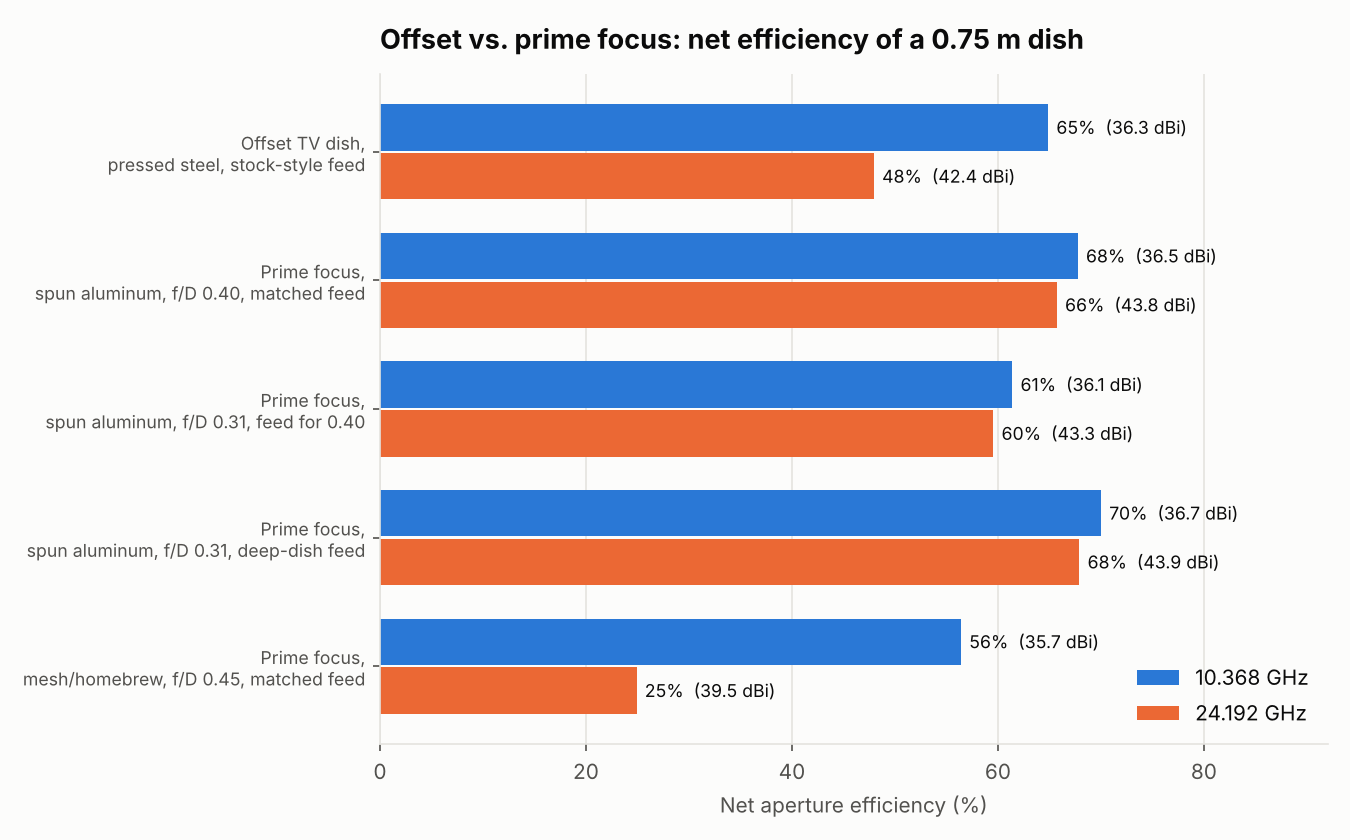
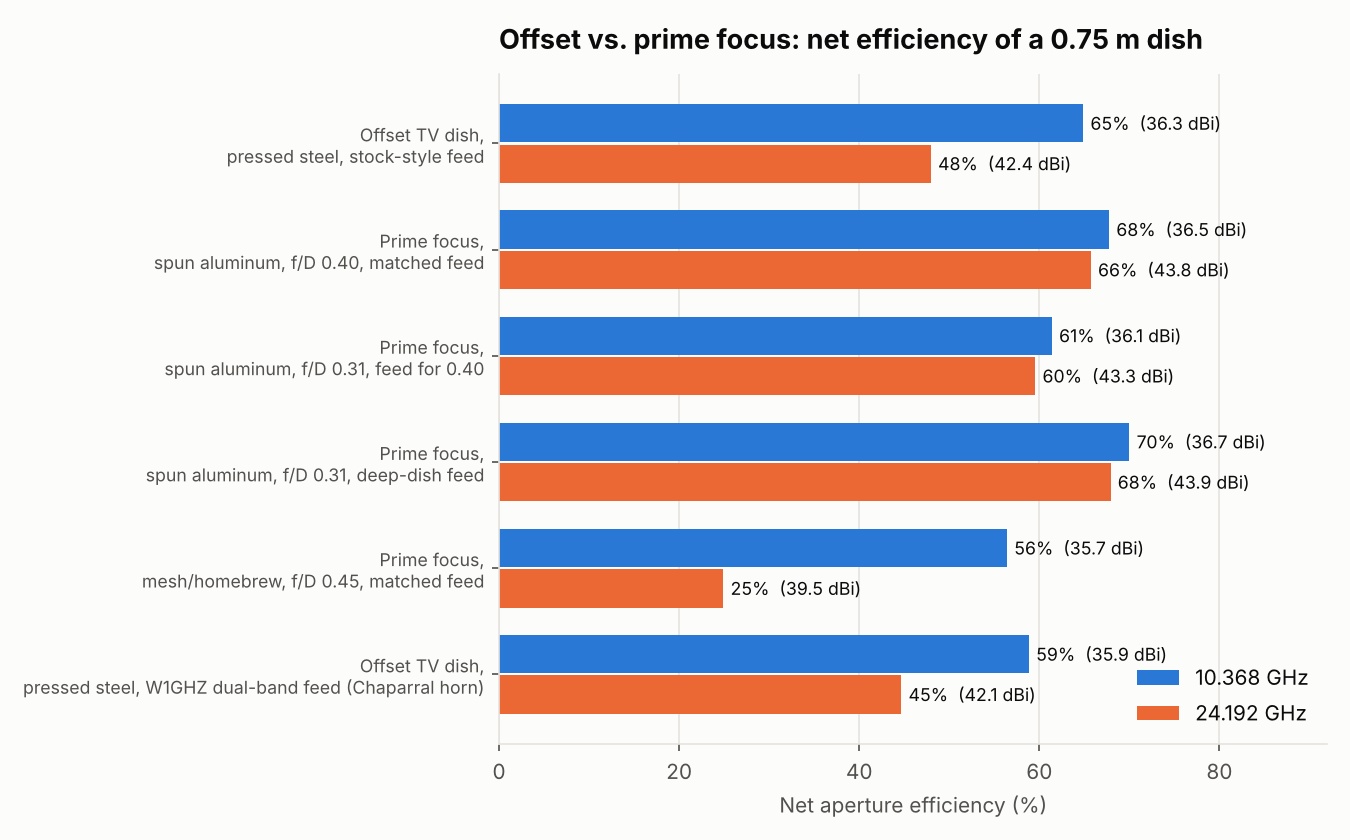
Add dual-band section from W1GHZ 10/24 GHz feed data
Horn efficiency and phase-center data from W1GHZ (2004), dual-band net gain
for offset dishes, comparison row, dish/feed recommendations, and the
production feed's 10 GHz port band-pass filter.

Claude-Session: https://claude.ai/code/session_01UT9Wmn24kQZdNkudeefJNH

diff --git a/make_report.py b/make_report.py
@@ -202,6 +202,9 @@ SCENARIOS = [
     ("Prime focus, spun aluminum, f/D 0.31, feed for 0.40", "prime", 0.31, 0.40, 0.25),
     ("Prime focus, spun aluminum, f/D 0.31, deep-dish feed", "prime", 0.31, 0.31, 0.25),
     ("Prime focus, mesh/homebrew, f/D 0.45, matched feed", "prime", 0.45, 0.45, 1.00),
+    # Optional 6th field: per-band feed efficiency (10, 24) from published data instead of the cos^n model.
+    ("Offset TV dish, pressed steel, W1GHZ dual-band feed (Chaparral horn)", "offset", 0.70, 0.70, 0.60,
+     (0.74, 0.76)),
 ]
 
 
@@ -209,16 +212,18 @@ def scenario_rows():
     """[(name, rms, illum, (eff10, gain10), (eff24, gain24), (blk10, blk24)), ...]"""
     other = 10 ** (-OTHER_LOSS_DB / 10)
     rows = []
-    for name, geom, fd, feed_fd, rms in SCENARIOS:
+    for name, geom, fd, feed_fd, rms, *override in SCENARIOS:
         n, _ = dc.best_feed_n(feed_fd)
-        illum = dc.illumination_efficiency(n, fd)
+        model_illum = dc.illumination_efficiency(n, fd)
         cells, blocks = [], []
-        for f in BANDS:
+        for k, f in enumerate(BANDS):
+            illum = override[0][k] if override else model_illum
             blk = 1.0 if geom == "offset" else dc.blockage_efficiency(FEED_BLOCK_WL * dc.wavelength_m(f), SCEN_D)
             blocks.append(blk)
             eff = illum * blk * other * 10 ** (-dc.ruze_loss_db(rms, f) / 10)
             cells.append((eff, dc.gain_dbi(SCEN_D, f, eff)))
-        rows.append((name, rms, illum, cells[0], cells[1], tuple(blocks)))
+        illum_txt = f"{override[0][0]:.0%} / {override[0][1]:.0%}*" if override else f"{model_illum:.1%}"
+        rows.append((name, rms, illum_txt, cells[0], cells[1], tuple(blocks)))
     return rows
 
 
@@ -226,10 +231,12 @@ def scenario_table() -> str:
     t = ("| Dish | RMS (assumed) | Illum. × spill | Blockage 10 / 24 | Net eff. 10 GHz | Net eff. 24 GHz "
          "| Gain 10.368 | Gain 24.192 |\n|---|---|---|---|---|---|---|---|\n")
     for name, rms, illum, c10, c24, blk in scenario_rows():
-        t += (f"| {name} | {rms:.2f} mm | {illum:.1%} | {blk[0]:.1%} / {blk[1]:.1%} | "
+        t += (f"| {name} | {rms:.2f} mm | {illum} | {blk[0]:.1%} / {blk[1]:.1%} | "
               f"{c10[0]:.1%} | {c24[0]:.1%} | {c10[1]:.2f} | {c24[1]:.2f} |\n")
     t += (f"\nAll rows: {SCEN_D} m aperture, {OTHER_LOSS_DB} dB lumped for phase error, cross-pol, feed loss "
-          f"and struts, feed shadow {FEED_BLOCK_WL:.0f}λ across. Gains in dBi.")
+          f"and struts, feed shadow {FEED_BLOCK_WL:.0f}λ across. Gains in dBi. "
+          "\\* W1GHZ's calculated 10 / 24 GHz efficiency at f/D 0.7 (includes phase error), used instead of the "
+          "cos^n model.")
     return t
 
 
@@ -332,6 +339,107 @@ def chart_size_vs_surface():
     plt.close(fig)
 
 
+# ---------------------------------------------------------------- dual-band (W1GHZ feed)
+
+REAL_WORLD = 0.85   # W1GHZ: "REAL WORLD at least 15% lower" than calculated efficiency
+DUAL_HORN = "Chaparral"
+DUAL_DISHES = [("18 in", 18 * dc.INCH)] + DISHES
+DUAL_RMS = [0.25, 0.5, 0.75]
+
+
+def load_horns():
+    import csv
+    with open(ROOT / "data" / "w1ghz_dualband_2004.csv") as fh:
+        rows = [r for r in csv.DictReader(line for line in fh if not line.startswith("#"))]
+    for r in rows:
+        for k in r:
+            if k != "horn":
+                r[k] = float(r[k])
+    return rows
+
+
+def horn_table() -> str:
+    t = ("| Horn | 24 GHz best eff. (f/D) | 10 GHz best eff. (f/D) | Eff. at f/D 0.7: 24 GHz | "
+         "Eff. at f/D 0.7: 10 GHz | 10 vs 24 GHz | Phase-center gap |\n|---|---|---|---|---|---|---|\n")
+    for h in load_horns():
+        gap = abs(h["pc24_mm"] - h["pc10_mm"])
+        diff = 10 * math.log10(h["offset07_eff10"] / h["offset07_eff24"])
+        lam24 = dc.wavelength_m(BANDS[1]) * 1000
+        lam10 = dc.wavelength_m(BANDS[0]) * 1000
+        name = f"**{h['horn']}**" if h["horn"] == DUAL_HORN else h["horn"]
+        t += (f"| {name} | {h['eff24_best']:.0%} ({h['fd24_best']:.2f}) | {h['eff10_best']:.0%} ({h['fd10_best']:.2f}) | "
+              f"{h['offset07_eff24']:.0%} | {h['offset07_eff10']:.0%} | {diff:+.2f} dB | "
+              f"{gap:.1f} mm ({gap / lam10:.2f} λ / {gap / lam24:.2f} λ) |\n")
+    t += ("\nCalculated (HFSS) values from W1GHZ (2004); see `data/w1ghz_dualband_2004.csv`. "
+          "\"10 vs 24 GHz\" is the 10 GHz efficiency relative to 24 GHz at offset f/D 0.7, "
+          "with the feed at the 24 GHz phase center. The phase-center gap is shown in wavelengths at 10 and at 24 GHz.")
+    return t
+
+
+def dual_effs():
+    h = next(x for x in load_horns() if x["horn"] == DUAL_HORN)
+    return h["offset07_eff10"] * REAL_WORLD, h["offset07_eff24"] * REAL_WORLD
+
+
+def dual_gain_table() -> str:
+    e10, e24 = dual_effs()
+    cols = [(f, e, r) for f, e in ((BANDS[0], e10), (BANDS[1], e24)) for r in DUAL_RMS]
+    t = "| Dish | " + " | ".join(f"{'10' if f < 20 else '24'} GHz @ {r} mm" for f, _, r in cols) + " |\n"
+    t += "|---|" + "---|" * len(cols) + "\n"
+    for name, d in DUAL_DISHES:
+        t += f"| {name} ({d:.3f} m) | " + " | ".join(
+            f"{dc.gain_dbi(d, f, e) - dc.ruze_loss_db(r, f):.1f}" for f, e, r in cols) + " |\n"
+    t += (f"\nNet gain in dBi with the {DUAL_HORN} horn: W1GHZ's calculated efficiency at f/D 0.7 "
+          f"× {REAL_WORLD} real-world factor = {e10:.1%} at 10.368 GHz and {e24:.1%} at 24.192 GHz, "
+          "minus Ruze surface loss.")
+    return t
+
+
+def chart_horns():
+    horns = load_horns()
+    names = [h["horn"].replace(" (bare dual-mode)", "\n(bare)").replace(" corrugated", "\ncorrugated") for h in horns]
+    x = np.arange(len(horns))
+    w = 0.36
+    fig, ax = plt.subplots(figsize=(9, 5.2), facecolor=SURFACE)
+    for i, (key, f, color) in enumerate((("offset07_eff10", BANDS[0], BLUE), ("offset07_eff24", BANDS[1], ORANGE))):
+        vals = [h[key] * 100 for h in horns]
+        bars = ax.bar(x + (i - 0.5) * (w + 0.02), vals, w, color=color, label=f"{f} GHz", zorder=2)
+        for b, v in zip(bars, vals):
+            ax.text(b.get_x() + b.get_width() / 2, v + 1, f"{v:.0f}", ha="center", color=INK, fontsize=9)
+    style(ax, "W1GHZ dual-band feed: calculated efficiency at offset f/D 0.7, by horn",
+          "", "Calculated efficiency (%)")
+    ax.set_xticks(x, names, fontsize=9)
+    ax.grid(axis="x", visible=False)
+    ax.set_ylim(0, 95)
+    ax.legend(frameon=False, loc="upper right", labelcolor=INK, ncol=2)
+    fig.tight_layout()
+    fig.savefig(ROOT / "images" / "dualband_horns.png", dpi=150)
+    plt.close(fig)
+
+
+def chart_dual_gain():
+    e10, e24 = dual_effs()
+    d = np.linspace(0.4, 1.0, 241)
+    fig, axes = plt.subplots(1, 2, figsize=(11, 5.0), facecolor=SURFACE)
+    for ax, f, e in zip(axes, BANDS, (e10, e24)):
+        for rms, color in zip(DUAL_RMS, (BLUE, ORANGE, AQUA)):
+            ax.plot(d, [dc.gain_dbi(x, f, e) - dc.ruze_loss_db(rms, f) for x in d], color=color, linewidth=2,
+                    label=f"{rms} mm RMS")
+        for name, dia in DUAL_DISHES:
+            ax.axvline(dia, color=GRID, linewidth=1, zorder=0)
+        style(ax, f"{f} GHz ({e:.0%} before surface loss)", "Aperture diameter (m)", "Net gain (dBi)")
+        ax.title.set_fontsize(12)
+        ax.set_xlim(0.4, 1.0)
+        top = dc.gain_dbi(1.0, f, e) + 0.5
+        ax.set_ylim(top - 11, top)
+    axes[0].legend(frameon=False, loc="lower right", labelcolor=INK, fontsize=9)
+    fig.suptitle(f"Offset dish with the W1GHZ dual-band feed ({DUAL_HORN} horn): net gain",
+                 x=0.01, ha="left", color=INK, fontsize=13, fontweight="bold")
+    fig.tight_layout()
+    fig.savefig(ROOT / "images" / "dualband_gain.png", dpi=150)
+    plt.close(fig)
+
+
 def main():
     chart_loss_vs_rms()
     chart_loss_vs_freq()
@@ -342,6 +450,8 @@ def main():
     chart_feed_mismatch()
     chart_scenarios()
     chart_size_vs_surface()
+    chart_horns()
+    chart_dual_gain()
     chart_net_eff_by_band()
     tables = (
         "### 10 GHz (10.368 GHz, λ = {:.2f} mm) — gain in dBi\n\n{}\n\n"
@@ -364,8 +474,15 @@ def main():
              ruze_table(), tolerance_table(), efficiency_band_table(), feed_table(), scenario_table())
     readme = ROOT / "README.md"
     text = readme.read_text()
-    text = re.sub(r"(<!-- TABLES:START -->\n).*?(<!-- TABLES:END -->)",
-                  lambda m: m.group(1) + tables + "\n" + m.group(2), text, flags=re.S)
+    dualband = (
+        "#### The W1GHZ feed with different horns\n\n{}\n\n"
+        "![Dual-band horn efficiencies](images/dualband_horns.png)\n\n"
+        "#### Expected net gain on offset dishes\n\n{}\n\n"
+        "![Dual-band net gain](images/dualband_gain.png)"
+    ).format(horn_table(), dual_gain_table())
+    for tag, body in (("TABLES", tables), ("DUALBAND", dualband)):
+        text = re.sub(rf"(<!-- {tag}:START -->\n).*?(<!-- {tag}:END -->)",
+                      lambda mm: mm.group(1) + body + "\n" + mm.group(2), text, flags=re.S)
     readme.write_text(text)
     print("README tables and images/ regenerated")
 

diff --git a/tests/test_dishcalc.py b/tests/test_dishcalc.py
@@ -55,3 +55,14 @@ def test_blockage_smaller_at_24ghz():
     b10 = dc.blockage_efficiency(3 * dc.wavelength_m(10.368), d)
     b24 = dc.blockage_efficiency(3 * dc.wavelength_m(24.192), d)
     assert 0.95 < b10 < b24 < 1.0
+
+
+def test_w1ghz_dualband_data():
+    import csv
+    path = pathlib.Path(__file__).resolve().parents[1] / "data" / "w1ghz_dualband_2004.csv"
+    with open(path) as fh:
+        rows = {r["horn"]: r for r in csv.DictReader(line for line in fh if not line.startswith("#"))}
+    ch = rows["Chaparral"]
+    assert float(ch["offset07_eff24"]) == 0.76 and float(ch["offset07_eff10"]) == 0.74
+    assert math.isclose(abs(float(ch["pc24_mm"]) - float(ch["pc10_mm"])), 1.3, abs_tol=1e-9)
+    assert len(rows) == 6

diff --git a/README.md b/README.md
@@ -16,6 +16,7 @@ It includes a small Python calculator (`dishcalc.py`), a script that regenerates
 - **Offset dishes are all alike in the ways that matter here.** They're built for satellite TV and use much the same feed geometry, so f/D isn't a useful way to compare them. What separates one from another is mainly size and surface accuracy.
 - **Prime-focus dishes vary much more.** f/D, how well the feed matches it, and surface quality (spun aluminum vs. mesh or homebrew) all swing widely. That's where the f/D and feed analysis below matters.
 - **Plan on 50–65% total aperture efficiency** for a real amateur dish. Figures of 70–75% describe illumination alone, before spillover, blockage, surface error and feed loss.
+- **A dual-band 10/24 GHz feed costs very little.** On an offset dish, the W1GHZ feed with a Chaparral horn is within about 0.1 dB of a feed optimized for each band, so the dish's 24 GHz surface accuracy matters far more than the dual-band compromise.
 - **On a prime-focus dish, a mismatched feed costs a few tenths of a dB.** A feed designed for f/D 0.40 on an f/D 0.31 dish loses about 0.4–0.6 dB. Moving the feed doesn't fix it; a feed with a wider beam does.
 
 ## Quick start
@@ -125,9 +126,66 @@ The tables and charts below support one main conclusion: **on 10 GHz, buy apertu
 - **The mechanics get about 2.3× tighter.** Beamwidth is roughly 1.0–1.5°, so mount stiffness, wind loading and pointing resolution matter more. Feed position tolerances scale with wavelength too, so peak the feed in small steps.
 - **The feed rules don't change.** Illumination efficiency depends only on geometry, so the same f/D matching guidance applies. Blockage is negligible (about 0.02 dB), so a precision prime-focus dish with a matched feed is the strongest single-band 24 GHz choice in the comparison table.
 
-### Coming next: dual-band
+## Dual-band use: the W1GHZ 10/24 GHz feed
 
-The [W1GHZ 10/24 GHz dual-band feed](https://rvhfg.org/wpr/w1ghz-dual-band-dish-feed/) is designed for **offset** dishes, and its two phase centers are close together, so peaking it on 10 GHz also puts 24 GHz in good shape. One feed then serves both bands, so the dish has to meet the 24 GHz surface requirement. A dual-band comparison will be added next.
+One feed covering both bands means you peak the dish on 10 GHz, where the beam is wider and easier to find, then switch to 24 GHz without moving anything. The [W1GHZ 10/24 GHz dual-band feed](https://rvhfg.org/wpr/w1ghz-dual-band-dish-feed/) is the design used here. It's described in Paul Wade W1GHZ's paper *Improving the Dual-band 10 & 24 GHz Feedhorn for Offset Dishes* (2004), which builds on AD6FP and AA6IW's design from Microwave Update 2001.
+
+### How the feed works
+
+- **24 GHz:** a W2IMU dual-mode horn sized for an offset dish, fed from the rear through circular waveguide and a WR-42 matching section.
+- **10 GHz:** an SMA probe in the side of the output section. The tapered section looks like a closed end at 10 GHz, so the output section acts like a simple "coffee-can" feed there.
+- **The outer horn fixes 10 GHz.** On its own, the 10 GHz section has a beam far too wide for an offset dish: only 47% efficient at f/D 0.7, versus 76% on 24 GHz. A corrugated or conical horn slipped over the output narrows the 10 GHz beam while barely affecting 24 GHz.
+- **Match (W1GHZ, measured):** VSWR about 1.25 at 10.368 GHz with no tuning, and about 1.05 at 24.192 GHz with the matching section. RVHFG reports production units typically above 30 dB return loss at 10.368 GHz and 20 dB at 24.192 GHz.
+- **Port isolation:** RVHFG reports at least 30 dB from 24 to 10 GHz. Isolation from 10 to 24 GHz is much higher, because WR-42 is beyond cutoff at 10 GHz. The production feed adds a **band-pass filter built into the pedestal of the 10 GHz SMA connector**. It doesn't affect antenna performance, but it gives about 30 dB of rejection of 24 GHz at the 10 GHz port, which keeps the 24 GHz transmitter from damaging the 10 GHz receiver. W1GHZ's 2004 paper predates the filter.
+
+### The data
+
+<!-- DUALBAND:START -->
+#### The W1GHZ feed with different horns
+
+| Horn | 24 GHz best eff. (f/D) | 10 GHz best eff. (f/D) | Eff. at f/D 0.7: 24 GHz | Eff. at f/D 0.7: 10 GHz | 10 vs 24 GHz | Phase-center gap |
+|---|---|---|---|---|---|---|
+| None (bare dual-mode) | 76% (0.72) | 71% (0.38) | 76% | 47% | -2.09 dB | 1.2 mm (0.04 λ / 0.10 λ) |
+| Conical | 76% (0.80) | 67% (0.70) | 74% | 66% | -0.50 dB | 5.2 mm (0.18 λ / 0.42 λ) |
+| RCA DSS | 75% (0.93) | 77% (0.70) | 69% | 68% | -0.06 dB | 19.0 mm (0.66 λ / 1.53 λ) |
+| **Chaparral** | 78% (0.81) | 75% (0.65) | 76% | 74% | -0.12 dB | 1.3 mm (0.04 λ / 0.10 λ) |
+| CD-80 | 77% (0.88) | 78% (0.76) | 68% | 65% | -0.20 dB | 24.2 mm (0.84 λ / 1.95 λ) |
+| Surplus corrugated | 79% (0.80) | 76% (0.70) | 77% | 70% | -0.41 dB | 15.8 mm (0.55 λ / 1.27 λ) |
+
+Calculated (HFSS) values from W1GHZ (2004); see `data/w1ghz_dualband_2004.csv`. "10 vs 24 GHz" is the 10 GHz efficiency relative to 24 GHz at offset f/D 0.7, with the feed at the 24 GHz phase center. The phase-center gap is shown in wavelengths at 10 and at 24 GHz.
+
+![Dual-band horn efficiencies](images/dualband_horns.png)
+
+#### Expected net gain on offset dishes
+
+| Dish | 10 GHz @ 0.25 mm | 10 GHz @ 0.5 mm | 10 GHz @ 0.75 mm | 24 GHz @ 0.25 mm | 24 GHz @ 0.5 mm | 24 GHz @ 0.75 mm |
+|---|---|---|---|---|---|---|
+| 18 in (0.457 m) | 31.9 | 31.7 | 31.4 | 39.1 | 38.3 | 36.9 |
+| 23.6 in (0.599 m) | 34.2 | 34.1 | 33.8 | 41.5 | 40.6 | 39.2 |
+| 24 in (0.610 m) | 34.4 | 34.2 | 33.9 | 41.6 | 40.8 | 39.4 |
+| 0.75 m (0.750 m) | 36.2 | 36.0 | 35.7 | 43.4 | 42.6 | 41.2 |
+| 0.80 m (0.800 m) | 36.7 | 36.6 | 36.3 | 44.0 | 43.1 | 41.7 |
+| 0.88 m (0.880 m) | 37.5 | 37.4 | 37.1 | 44.8 | 44.0 | 42.6 |
+
+Net gain in dBi with the Chaparral horn: W1GHZ's calculated efficiency at f/D 0.7 × 0.85 real-world factor = 62.9% at 10.368 GHz and 64.6% at 24.192 GHz, minus Ruze surface loss.
+
+![Dual-band net gain](images/dualband_gain.png)
+<!-- DUALBAND:END -->
+
+### What the numbers say
+
+- **The Chaparral horn is the best match for dual-band use.** W1GHZ calculates 76% at 24 GHz and 74% at 10 GHz at offset f/D 0.7, and its two phase centers are only 1.3 mm apart (0.04 λ at 10 GHz, 0.10 λ at 24 GHz). Peaking on one band leaves the other essentially in focus.
+- **Dual-band costs very little.** Compared with the same Chaparral-horn feed at each band's own best f/D and focus, using it at f/D 0.7 with the 24 GHz focus costs about 0.1 dB on each band (78% → 76% at 24 GHz, 75% → 74% at 10 GHz). W1GHZ calls it comparable to the best single-band feeds. The planning comparison under Results puts it 0.3–0.4 dB below an *ideal* single-band feed, which is the upper bound.
+- **Other horns trade one band for the other.** The surplus corrugated horn is slightly better at 24 GHz but 0.4 dB lower at 10 GHz, and its phase centers are 15.8 mm apart. The RCA and CD-80 horns lose 24 GHz efficiency at f/D 0.7. Never run the bare dual-mode feed without a horn: it's 2.1 dB down on 10 GHz.
+- **Calculated, not measured.** These are HFSS figures. W1GHZ notes real-world efficiency is at least 15% lower, so the gain table applies a 0.85 factor: about 63% on 10 GHz and 65% on 24 GHz before surface loss.
+
+### Choosing a dish for the dual-band feed
+
+- **Use an offset dish.** The feed is designed for offset geometry around f/D 0.7, which suits DSS-style dishes. RVHFG reports offset dishes from 12 in to 1.2 m in successful use, and says 18 in DSS dishes work well.
+- **Let 24 GHz set the surface requirement.** A dish that's fine on 10 GHz can lose several dB on 24 GHz. Aim for about 0.33 mm RMS or better (0.5 dB of surface loss) and avoid mesh. On a 0.75 m dish, going from 0.25 mm to 0.75 mm RMS costs 2.2 dB on 24 GHz and only 0.4 dB on 10 GHz.
+- **Then go as big as the surface allows.** Once the surface is good, size pays on both bands. A good 0.75 m dish gives about 36 dBi on 10 GHz and 43 dBi on 24 GHz; an 18 in DSS dish gives about 32 and 39 dBi.
+- **Expect a narrow beam on 24 GHz.** It's 2.3× narrower than on 10 GHz (about 1.0–1.5° in this size range), so peak on 10 GHz, switch, and touch up the 24 GHz peak if needed. W1GHZ and RVHFG both advise moving the feed in small steps when focusing.
+- **Practical details:** keep the 24 GHz waveguide and 10 GHz coax runs short, and weatherproof the open horn (RVHFG suggests a yogurt-container lid sealed in place).
 
 ## Results
 
@@ -217,8 +275,9 @@ The dot marks the f/D 0.40 feed on the f/D 0.31 dish from the table.
 | Prime focus, spun aluminum, f/D 0.31, feed for 0.40 | 0.25 mm | 75.0% | 97.3% / 99.5% | 61.4% | 59.6% | 36.10 | 43.33 |
 | Prime focus, spun aluminum, f/D 0.31, deep-dish feed | 0.25 mm | 85.5% | 97.3% / 99.5% | 70.0% | 67.9% | 36.67 | 43.90 |
 | Prime focus, mesh/homebrew, f/D 0.45, matched feed | 1.00 mm | 82.2% | 97.3% / 99.5% | 56.4% | 24.9% | 35.74 | 39.54 |
+| Offset TV dish, pressed steel, W1GHZ dual-band feed (Chaparral horn) | 0.60 mm | 74% / 76%* | 100.0% / 100.0% | 58.8% | 44.7% | 35.92 | 42.08 |
 
-All rows: 0.75 m aperture, 0.7 dB lumped for phase error, cross-pol, feed loss and struts, feed shadow 3λ across. Gains in dBi.
+All rows: 0.75 m aperture, 0.7 dB lumped for phase error, cross-pol, feed loss and struts, feed shadow 3λ across. Gains in dBi. \* W1GHZ's calculated 10 / 24 GHz efficiency at f/D 0.7 (includes phase error), used instead of the cos^n model.
 
 ![Offset vs prime focus net efficiency](images/offset_vs_prime_focus.png)
 <!-- TABLES:END -->
@@ -236,6 +295,7 @@ All rows: 0.75 m aperture, 0.7 dB lumped for phase error, cross-pol, feed loss a
 |---|---|
 | `dishcalc.py` | Library and command-line calculator: gain, HPBW, Ruze loss, surface tolerance, cosⁿ illumination, feed blockage, feed mismatch |
 | `make_report.py` | Regenerates the README tables and the PNGs in `images/` |
+| `data/w1ghz_dualband_2004.csv` | W1GHZ's calculated dual-band horn efficiencies and phase centers, with source notes |
 | `tests/test_dishcalc.py` | pytest checks against known values |
 | `images/` | Generated charts |
 | `.github/workflows/check.yml` | CI: runs the tests and fails if the README tables don't match the code |
@@ -246,6 +306,9 @@ All rows: 0.75 m aperture, 0.7 dB lumped for phase error, cross-pol, feed loss a
 - S. Silver, *Microwave Antenna Theory and Design*, MIT Radiation Laboratory Series, vol. 12, 1949.
 - J. D. Kraus and R. J. Marhefka, *Antennas*, McGraw-Hill.
 - P. Wade, W1GHZ, *The W1GHZ Online Microwave Antenna Book* (parabolic dish, feed and efficiency chapters).
+- P. Wade, W1GHZ, "Improving the Dual-band 10 & 24 GHz Feedhorn for Offset Dishes," 2004.
+- G. Lauterbach, AD6FP, and L. Karlsson, AA6IW, "Dual-Band 10/24 GHz Feedhorns for Shallow Dishes," *Proceedings of Microwave Update 2001*, ARRL, pp. 181–190.
+- Rochester VHF Group, [W1GHZ Dual-Band Dish Feed](https://rvhfg.org/wpr/w1ghz-dual-band-dish-feed/).
 
 ## License
 
